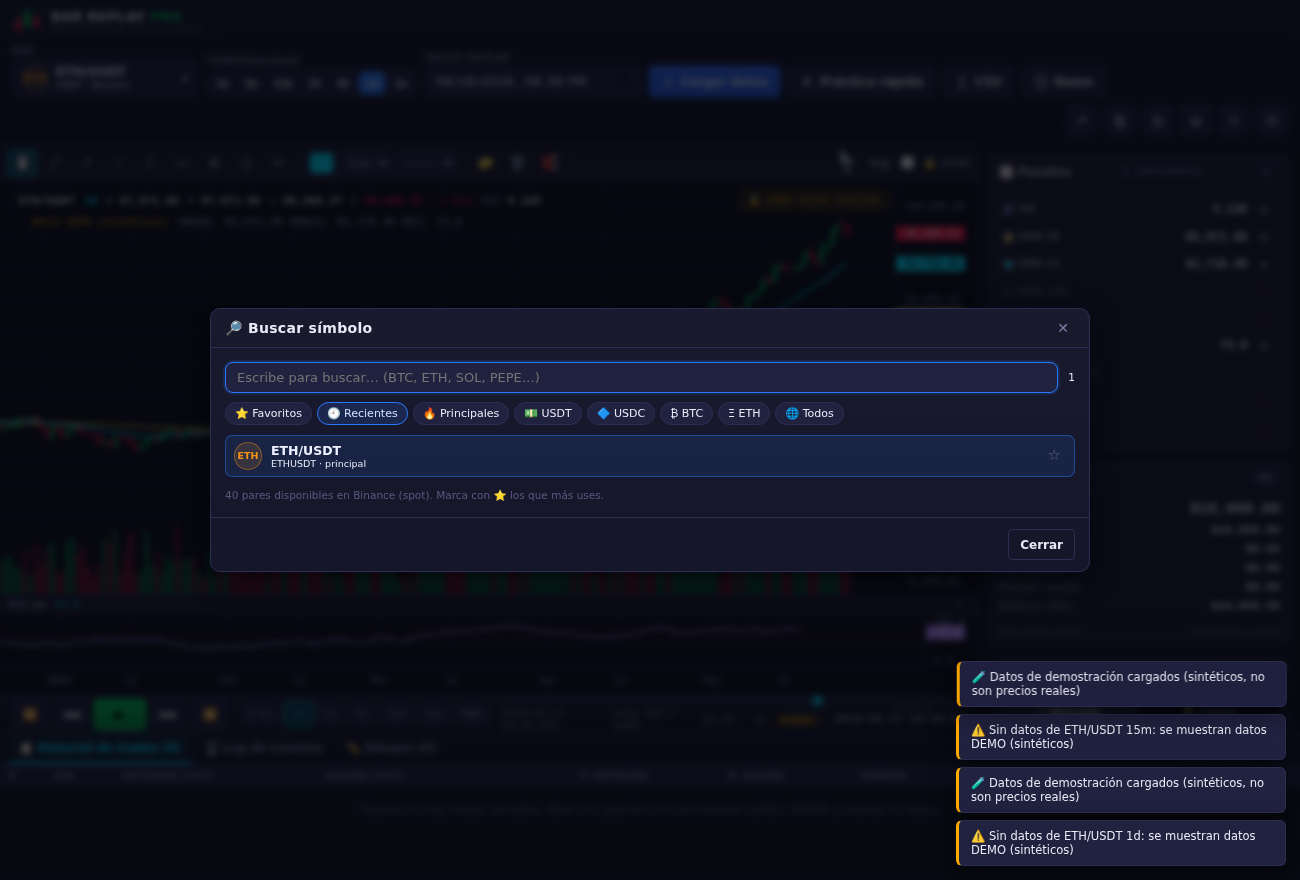
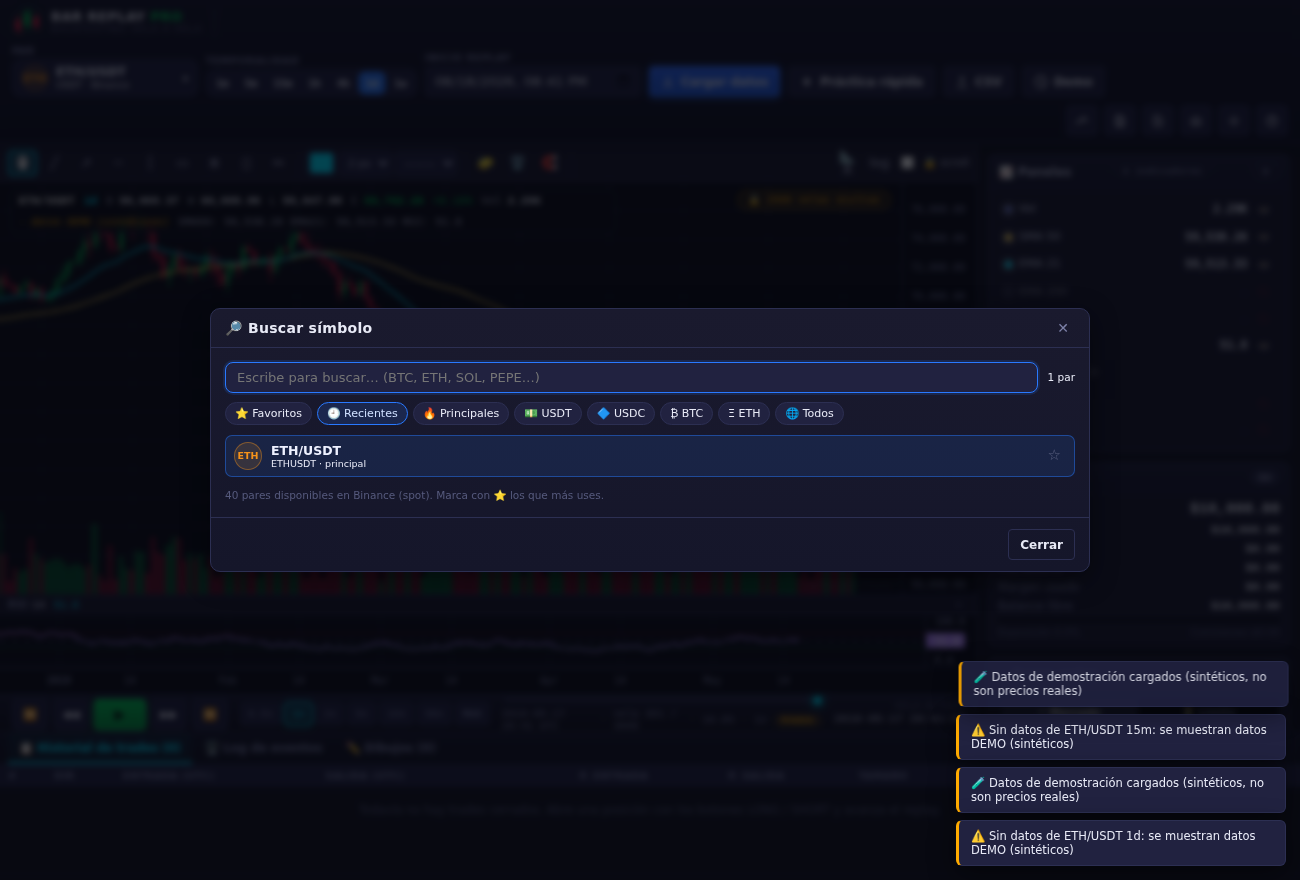
Buscador en vivo: proxy de exchangeInfo (1183 pares) y contador etiquetado
- server.js: proxy /api/v3/exchangeInfo con la misma caída entre hosts que las
  velas (algunos devuelven 451) y caché de 6 h; así el buscador lista todo el
  catálogo de Binance en vez de solo los 40 pares de referencia.
- El contador del buscador ya no es un número suelto: «37 pares»,
  «1 par» o «… · mostrando 300».
- docs/captura-20-buscador-en-vivo.png con el catálogo real.

diff --git a/server.js b/server.js
@@ -119,6 +119,54 @@ function proxyKlines(query, res) {
   next();
 }
 
+/**
+ * Proxy del catálogo de símbolos de Binance (/api/v3/exchangeInfo).
+ * El buscador de símbolos lo usa para listar TODOS los pares disponibles, no
+ * solo los 40 de referencia. Igual que con las velas, se prueban los hosts en
+ * orden hasta que uno responda (algunos devuelven 451 por región).
+ * Se cachea 6 h: el catálogo cambia muy poco.
+ */
+function proxyExchangeInfo(res) {
+  let i = 0;
+  const tried = [];
+  const next = () => {
+    if (i >= BINANCE_HOSTS.length) {
+      res.writeHead(502, { 'Content-Type': 'application/json' });
+      res.end(JSON.stringify({ error: 'Ningún host de Binance respondió', hosts: tried }));
+      return;
+    }
+    const host = BINANCE_HOSTS[i++];
+    const req = https.get(`https://${host}/api/v3/exchangeInfo`,
+      { timeout: 12000, headers: { 'User-Agent': 'bar-replay-pro/1.0', 'Accept': 'application/json' } },
+      (up) => {
+        let body = '';
+        up.on('data', (c) => { body += c; });
+        up.on('end', () => {
+          tried.push({ host, status: up.statusCode });
+          if (up.statusCode !== 200) {
+            console.warn(`  · ${host} (catálogo) → HTTP ${up.statusCode}, probando el siguiente host…`);
+            next();
+            return;
+          }
+          res.writeHead(200, {
+            'Content-Type': 'application/json; charset=utf-8',
+            'Cache-Control': 'public, max-age=21600',
+            'Access-Control-Allow-Origin': '*',
+            'X-Binance-Host': host,
+          });
+          res.end(body);
+        });
+      });
+    req.on('timeout', () => req.destroy(new Error('timeout')));
+    req.on('error', (err) => {
+      tried.push({ host, error: err.message });
+      console.warn(`  · ${host} (catálogo) → ${err.message}, probando el siguiente host…`);
+      next();
+    });
+  };
+  next();
+}
+
 /** Sirve un archivo estático. */
 function serveStatic(pathname, res) {
   let rel = decodeURIComponent(pathname.split('?')[0]);
@@ -160,6 +208,10 @@ const handler = (req, res) => {
     return;
   }
   // El mismo origen puede exponer también otros endpoints de Binance
+  if (pathname === '/api/v3/exchangeInfo') {
+    proxyExchangeInfo(res);
+    return;
+  }
   if (pathname === '/api/v3/time') {
     res.writeHead(200, { 'Content-Type': 'application/json' });
     res.end(JSON.stringify({ serverTime: Date.now() }));
@@ -178,6 +230,7 @@ try {
   app.use(express.static(ROOT, { extensions: ['html'] }));
   app.get('/api/status', (req, res) => res.json({ ok: true, app: 'Bar Replay Pro', binance: BINANCE_HOSTS }));
   app.get('/api/v3/klines', (req, res) => proxyKlines(req.query, res));
+  app.get('/api/v3/exchangeInfo', (req, res) => proxyExchangeInfo(res));
   app.get('/api/v3/time', (req, res) => res.json({ serverTime: Date.now() }));
   server = http.createServer(app);
   engine = 'express';

diff --git a/bar-replay-pro-unico.html b/bar-replay-pro-unico.html
@@ -6042,7 +6042,9 @@ window.BRP_SNAPSHOT = {"savedAt":"2026-10-07 19:19 UTC","note":"Velas reales de 
     lista = lista.slice(0, max);
 
     const cnt = document.getElementById('symCount');
-    if (cnt) cnt.textContent = total ? total + (total > max ? ' (mostrando ' + max + ')' : '') : 'sin resultados';
+    if (cnt) cnt.textContent = total
+      ? total + (total === 1 ? ' par' : ' pares') + (total > max ? ' · mostrando ' + max : '')
+      : 'sin resultados';
 
     if (!lista.length) {
       cont.innerHTML = '<div class="hint">' + (cat === 'favoritos'

diff --git a/js/uiController.js b/js/uiController.js
@@ -663,7 +663,9 @@
     lista = lista.slice(0, max);
 
     const cnt = document.getElementById('symCount');
-    if (cnt) cnt.textContent = total ? total + (total > max ? ' (mostrando ' + max + ')' : '') : 'sin resultados';
+    if (cnt) cnt.textContent = total
+      ? total + (total === 1 ? ' par' : ' pares') + (total > max ? ' · mostrando ' + max : '')
+      : 'sin resultados';
 
     if (!lista.length) {
       cont.innerHTML = '<div class="hint">' + (cat === 'favoritos'

diff --git a/README.md b/README.md
@@ -74,6 +74,8 @@ precios, tamaño, PnL, %, R, motivo de cierre y duración).
 
 ### 7. Gestión de datos
 - **Binance** `/api/v3/klines` con **paginación automática** de 1000 velas y 6 hosts espejo.
+- **Catálogo de símbolos** `/api/v3/exchangeInfo` (1.100+ pares reales) para el buscador,
+  con proxy propio en `server.js` y caché de 6 h; si no hay red, lista local de 40 pares.
 - **Fallback a CoinGecko** si Binance no está disponible.
 - **Caché local** (localStorage) de lo descargado, con aviso de velas en caché.
 - Importación de **CSV** (con o sin cabecera, separador `,`/`;`/tabulador, fechas ISO o epoch).
